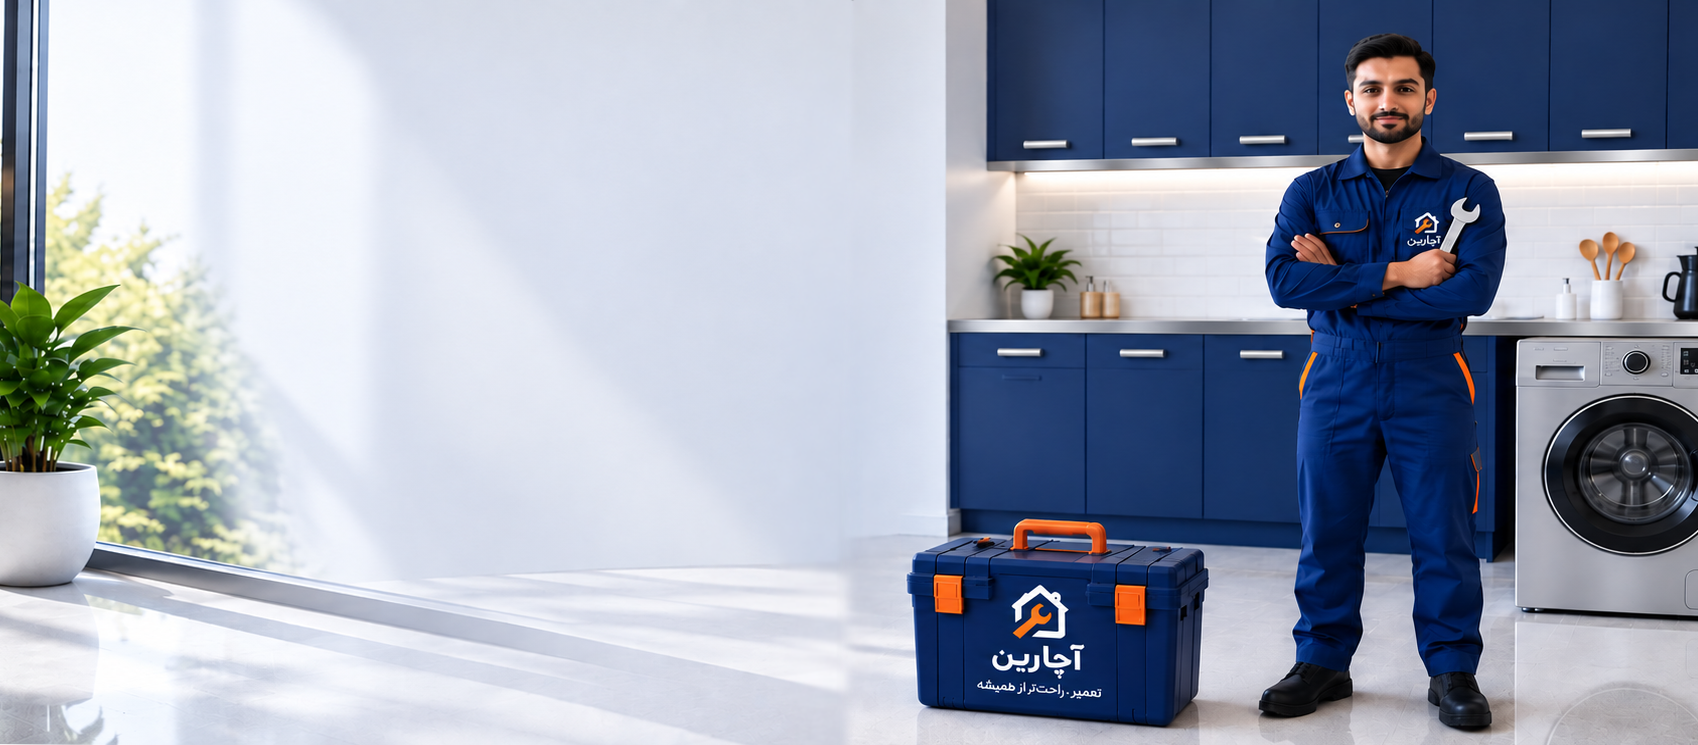
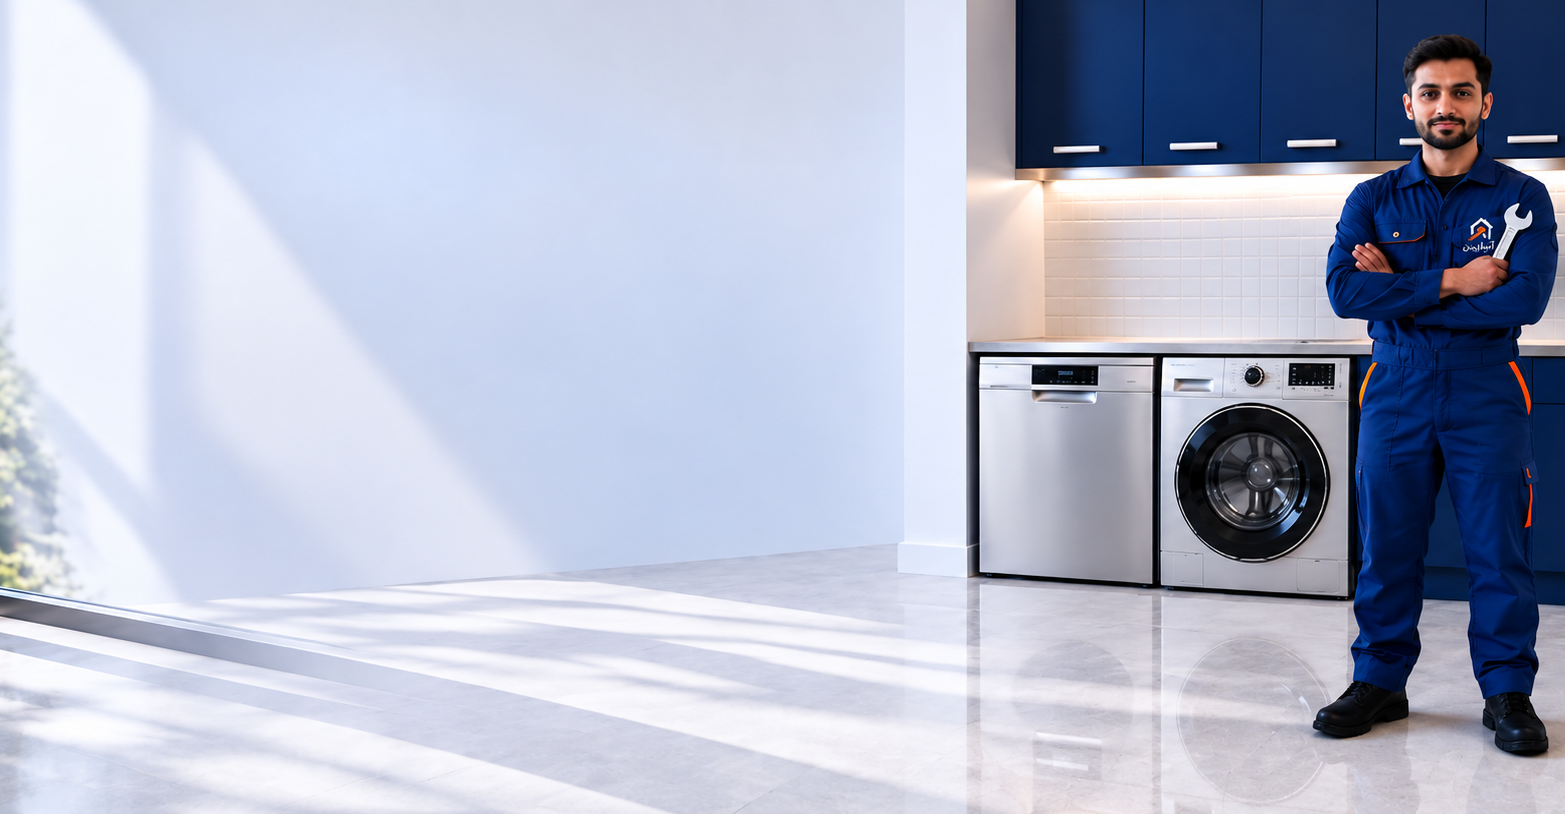
Update site css and html

diff --git a/static/css/responsive.css b/static/css/responsive.css
@@ -24,6 +24,10 @@
         padding-inline: 20px;
     }
 
+    .slider_section .hero-img {
+        width: fit-content;
+    }
+
     .slider_section .hero-wrapper {
         gap: 24px;
     }
@@ -201,6 +205,10 @@
         min-height: 660px;
     }
 
+    .slider_section .hero-img {
+        width: fit-content;
+    }
+
     .slider_section .hero-wrapper {
         gap: 20px;
         min-height: 600px;
@@ -215,6 +223,10 @@
         gap: 14px;
     }
 
+    .slider_section .detail-box .heading_2 {
+        text-align: left;
+    }
+
     .slider_section .heading_2 h1 {
         max-width: 550px;
         font-size: 2.55rem;
@@ -226,14 +238,10 @@
         z-index: 3;
         font-size: 12px;
         padding: 7px 14px;
-        background: rgba(255, 255, 255, 0.74);
-        color: var(--brand-navy);
-        box-shadow: 0 4px 14px rgba(14, 46, 101, 0.08);
     }
 
     .slider_section .heading_2 .note {
         margin-top: 14px;
-        font-size: 15px;
         line-height: 1.8;
     }
 
@@ -362,12 +370,7 @@
     .about_section .stat-title {
         font-size: 11px;
     }
-}
 
-/* =========================================================
-   Services — Bootstrap LG 992–1199.98px
-   ========================================================= */
-@media (min-width: 992px) and (max-width: 1199.98px) {
     .main.service_section {
         padding: 55px 16px 45px;
     }
@@ -434,12 +437,7 @@
     .service_section .btn-box {
         margin-top: 34px;
     }
-}
 
-/* =========================================================
-   Clients / Reviews — Bootstrap LG 992–1199.98px
-   ========================================================= */
-@media (min-width: 992px) and (max-width: 1199.98px) {
     .main.client_section {
         padding: 50px 16px 42px;
     }
@@ -528,12 +526,7 @@
     .client_section .btn-box {
         margin-top: 32px;
     }
-}
 
-/* =========================================================
-   News / Magazine — Bootstrap LG 992–1199.98px
-   ========================================================= */
-@media (min-width: 992px) and (max-width: 1199.98px) {
     .main.news_section {
         padding: 55px 16px 45px;
     }
@@ -591,12 +584,7 @@
     .news_section .btn-box {
         margin-top: 34px;
     }
-}
 
-/* =========================================================
-   Order / Repair Process — Bootstrap LG 992–1199.98px
-   ========================================================= */
-@media (min-width: 992px) and (max-width: 1199.98px) {
     .main.order_section {
         padding: 55px 16px 45px;
     }
@@ -656,12 +644,7 @@
         width: 210px;
         height: 50px;
     }
-}
 
-/* =========================================================
-   Footer — Bootstrap LG 992–1199.98px
-   ========================================================= */
-@media (min-width: 992px) and (max-width: 1199.98px) {
     .footer_section {
         padding: 58px 20px 18px;
     }
@@ -708,171 +691,4 @@
     }
 }
 
-/* =========================================================
-   MD — Bootstrap 768px breakpoint
-   Home hero/header only — 768–991.98px
-   ========================================================= */
-@media (min-width: 768px) and (max-width: 991.98px) {
-    .header_section .container-fluid {
-        padding-inline: 18px;
-    }
 
-    .navbar-brand {
-        width: 132px;
-    }
-
-    .navbar-toggler {
-        width: 40px;
-        height: 40px;
-    }
-
-    .slider_section {
-        padding: 24px 14px 20px;
-        min-height: 650px;
-    }
-
-    .slider_section .hero-img {
-        object-position: 58% center;
-    }
-
-    .slider_section .hero-wrapper {
-        gap: 16px;
-        min-height: 605px;
-        align-items: center;
-    }
-
-    .slider_section .hero-wrapper .hero-content {
-        padding-bottom: 4px;
-    }
-
-    .slider_section .hero-content .detail-box {
-        max-width: 420px;
-        gap: 12px;
-    }
-
-    .slider_section .heading_2 {
-        position: relative;
-        z-index: 3;
-        padding: 10px 12px 8px;
-        border-radius: 18px;
-        background: rgba(255, 255, 255, 0.24);
-        backdrop-filter: blur(5px);
-        -webkit-backdrop-filter: blur(5px);
-    }
-
-    .slider_section .heading_2 h1 {
-        max-width: 420px;
-        margin-inline: auto;
-        font-size: 2.05rem;
-        line-height: 1.4;
-        color: var(--brand-navy);
-        text-shadow: 0 2px 8px rgba(255, 255, 255, 0.8);
-    }
-
-    .slider_section .heading_2 .hero-badge {
-        position: relative;
-        z-index: 5;
-        display: inline-flex !important;
-        visibility: visible !important;
-        opacity: 1 !important;
-        align-items: center;
-        padding: 6px 12px;
-        font-size: 11px;
-        background: rgba(255, 255, 255, 0.96) !important;
-        color: var(--brand-navy) !important;
-        border: 1px solid rgba(255, 255, 255, 0.95);
-        box-shadow: 0 5px 16px rgba(14, 46, 101, 0.14);
-    }
-
-    .slider_section .heading_2 .note {
-        display: inline-block;
-        margin-top: 8px;
-        padding: 3px 10px;
-        border-radius: 10px;
-        background: rgba(255, 255, 255, 0.88);
-        font-size: 13px;
-        line-height: 1.65;
-        color: #1e293b;
-        box-shadow: 0 3px 10px rgba(14, 46, 101, 0.08);
-    }
-
-    .slider_section .detail-box .boxs {
-        gap: 9px;
-        margin-top: 2px;
-        max-width: 420px;
-    }
-
-    .slider_section .boxs .box {
-        min-height: 82px;
-        padding: 9px 6px;
-        border-radius: 12px;
-    }
-
-    .slider_section .boxs .box .icon-i {
-        margin-bottom: 4px;
-    }
-
-    .slider_section .boxs .box i {
-        font-size: 21px;
-    }
-
-    .slider_section .boxs .box .name {
-        font-size: 10px;
-        line-height: 1.55;
-    }
-
-    .slider_section .hero-form {
-        flex: 0 0 290px;
-        max-width: 290px;
-        padding: 13px;
-        border-radius: 16px;
-    }
-
-    .slider_section .hero-form h2 {
-        font-size: 18px;
-    }
-
-    .slider_section .hero-form p {
-        margin: 6px 0 12px;
-        font-size: 11px;
-        line-height: 1.5;
-    }
-
-    .slider_section .hero-form input,
-    .slider_section .hero-form select {
-        height: 35px;
-        padding-inline: 11px;
-    }
-
-    .slider_section .hero-form textarea {
-        min-height: 78px;
-        padding: 10px 11px;
-    }
-
-    .slider_section .hero-form label {
-        gap: 0 !important;
-        margin-bottom: 6px;
-        padding: 0 !important;
-        font-size: 0 !important;
-        line-height: 0 !important;
-        color: transparent !important;
-    }
-
-    .slider_section .hero-form label input,
-    .slider_section .hero-form label select,
-    .slider_section .hero-form label textarea {
-        font-size: 13px;
-        line-height: 1.5;
-        color: #334155;
-    }
-
-    .slider_section .hero-form .btn-box {
-        margin-top: 5px;
-    }
-
-    .slider_section .hero-form .btn-box button {
-        height: 38px;
-        padding-inline: 12px;
-        font-size: 13px;
-    }
-}

diff --git a/Home/templates/Home/home.html b/Home/templates/Home/home.html
@@ -7,8 +7,7 @@
     <section class="main slider_section" aria-labelledby="hero-title">
         <img class="hero-img" src="{% static 'img/hero.png' %}" alt="تعمیرکار در حال تعمیر لوازم خانگی" loading="eager"
              fetchpriority="high" decoding="async">
-        <img class="hero2-img" src="{% static 'img/hero2.png' %}" alt="" loading="lazy" decoding="async"
-             aria-hidden="true">
+
         <div class="container-fluid">
             <div class="hero-wrapper">
                 <div class="hero-content">
@@ -42,6 +41,7 @@
                         <p>اطلاعات خود را وارد کنید؛ کارشناسان ما در کوتاهترین زمان با شما تماس میگیرند.</p>
                         <label for="client-name">نام و نام خانوادگی
                             <input id="client-name" type="text" name="Cname" autocomplete="name" value="
+
                                     {% if form_user %}{{ form_user.instance.first_name }} {{ form_user.instance.last_name }}{% endif %}"
                                    placeholder="نام و نام خانوادگی" required>
                         </label>
@@ -174,7 +174,8 @@
                                 <p class="card-text">{{ itm.msg }}</p>
                             </div>
                             <div class="card-footer">
-                                <time class="date_text" datetime="{{ itm.created_at|date:'Y-m-d' }}">{{ itm.created_at.date|to_jalali:"%Y/%m/%d"  }} </time>
+                                <time class="date_text"
+                                      datetime="{{ itm.created_at|date:'Y-m-d' }}">{{ itm.created_at.date|to_jalali:"%Y/%m/%d" }} </time>
 
                             </div>
                         </article>

diff --git a/static/css/style.css b/static/css/style.css
@@ -72,9 +72,9 @@ a, a:hover, a:focus{text-decoration: none;}
 /*end main*/
 
 /* slider section */
-.main.slider_section{position:relative;overflow:hidden;background:#f8fafc;padding:34px 30px 28px;min-height:680px}
+.main.slider_section{position:relative;overflow:hidden;background:#f8fafc;padding:34px 30px 28px;min-height:640px}
 
-.slider_section .hero-img{position:absolute;inset:0;width:100%;height:100%;object-position:center;z-index:0;object-fit:cover}
+.slider_section .hero-img{position:absolute;inset:0;width:100%;height:100%;object-position:center;z-index:0;object-fit:cover;}
 
 .slider_section .hero2-img{display:none}
 
